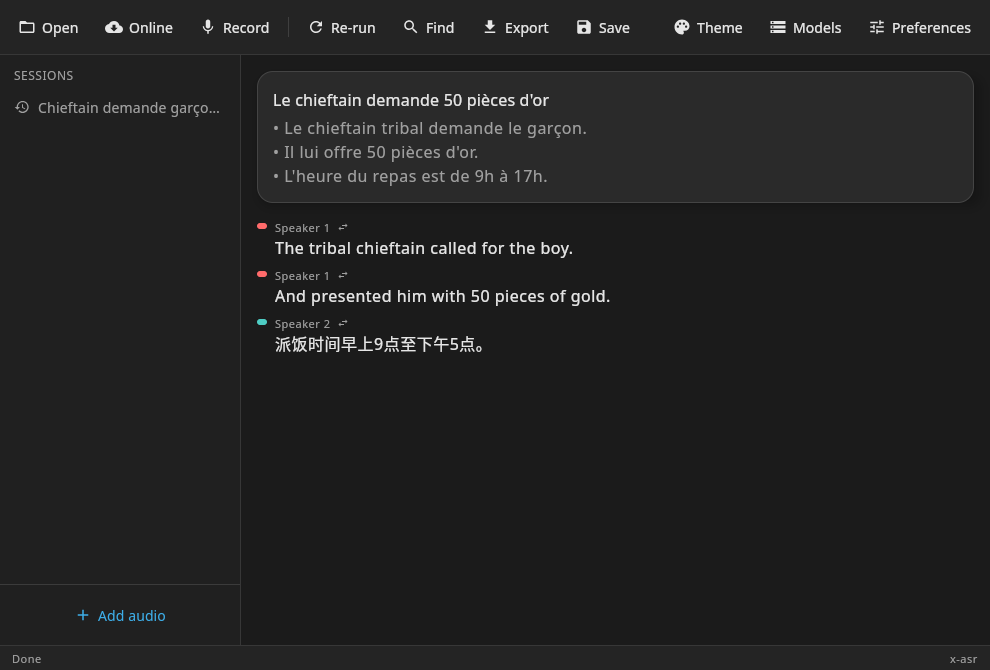
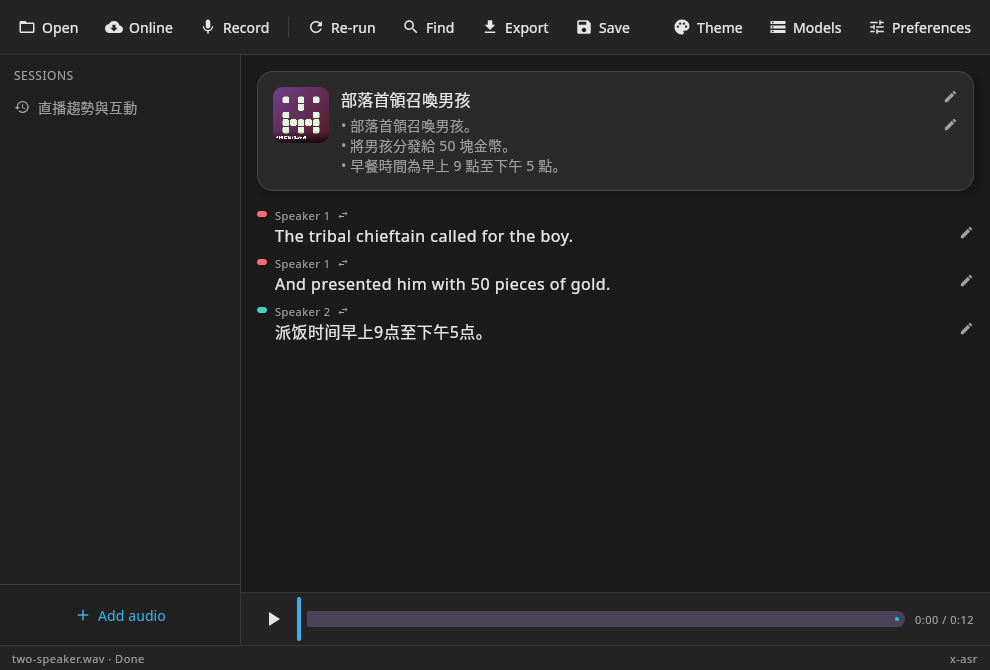
docs: refresh transcript screenshot to the current UI (player, identicon, editable fields)
Claude-Session: https://claude.ai/code/session_01G1XP47A3BZFQUAtCdVmmTM

diff --git a/README.md b/README.md
@@ -27,7 +27,7 @@ Kotlin code — theme, settings, model provisioning, the full ASR/diarization/su
 <table>
   <tr>
     <td align="center"><img src="docs/screenshots/linux-empty-state.png" width="420" alt="Empty state"/><br/><sub>Two-pane desktop layout — sessions sidebar + detail</sub></td>
-    <td align="center"><img src="docs/screenshots/linux-transcript.png" width="420" alt="Transcript"/><br/><sub>Transcribed, diarized &amp; summarized</sub></td>
+    <td align="center"><img src="docs/screenshots/linux-transcript.png" width="420" alt="Transcript"/><br/><sub>Transcribed, diarized &amp; summarized — editable, synced audio player</sub></td>
   </tr>
   <tr>
     <td align="center"><img src="docs/screenshots/linux-settings.png" width="420" alt="Settings"/><br/><sub>Settings — ASR/LLM model pickers, language, diarization, summary options</sub></td>
